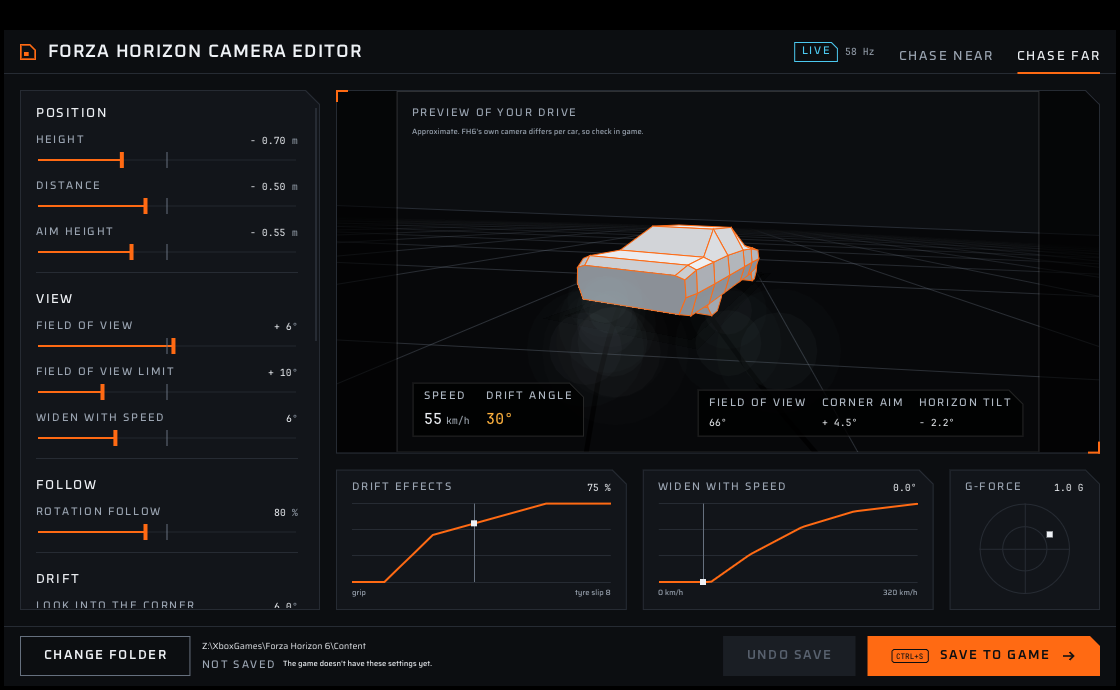
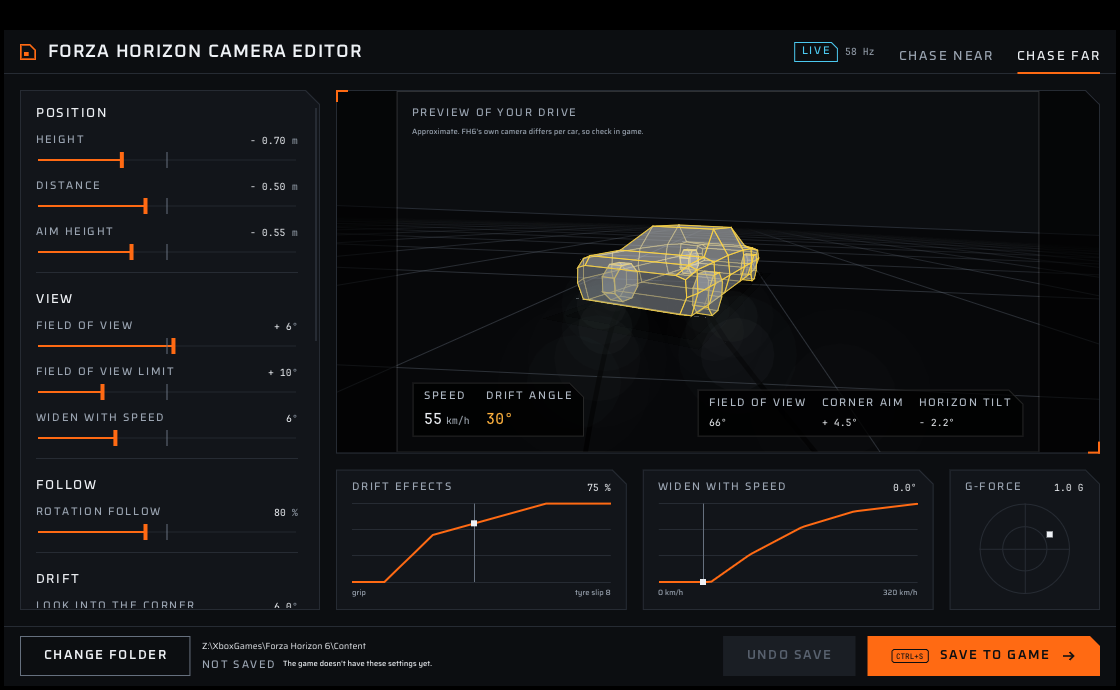
See-through preview car with yellow edges
Faces are semi-transparent white and back faces are kept, so the far side and
the wheels show faintly through the near side. Edge lines are yellow at about
85% opacity on near faces, dimmer on far ones.

Changed region(s): [[0.5, 0.3043, 0.6875, 0.4565], [0.8125, 0.3957, 0.8438, 0.4261], [0.375, 0.487, 0.4062, 0.5174]]

diff --git a/editor/src/preview.cpp b/editor/src/preview.cpp
@@ -31,7 +31,7 @@ ImU32 mix(unsigned a, unsigned b, float t, int alpha = 255) {
     return IM_COL32(ch(16), ch(8), ch(0), alpha);
 }
 
-struct Face { V3 c[8]; int count; V3 n; float shade; double depth; };
+struct Face { V3 c[8]; int count; V3 n; float shade; double depth; bool front; };
 } // namespace
 
 void drawPreview(ImDrawList* dl, ImVec2 a, ImVec2 b, ImVec2 fa, ImVec2 fb, const fh6::CamPose& cam, const fh6::Inputs& in, const fh6::Scene& scene) {
@@ -117,9 +117,9 @@ void drawPreview(ImDrawList* dl, ImVec2 a, ImVec2 b, ImVec2 fa, ImVec2 fb, const
     };
     drawSmoke(true);
 
-    // car: a white low-poly coupe lofted through cross-sections along its
-    // length, flat shaded with orange edge lines; wheels first (tucked under
-    // the body), then the body. Painter's order hides the lines of faces behind.
+    // car: a see-through white low-poly coupe lofted through cross-sections
+    // along its length, with yellow edge lines. All faces, back to front: the
+    // far side shows faintly through the near side.
     V3 fwd(std::sin(in.heading), 0, std::cos(in.heading));
     V3 right(fwd.z, 0, -fwd.x);
     V3 up(0, 1, 0);
@@ -143,7 +143,7 @@ void drawPreview(ImDrawList* dl, ImVec2 a, ImVec2 b, ImVec2 fa, ImVec2 fb, const
         if (nrm.len() < 1e-9) return;
         nrm = nrm.norm();
         if (nrm.dot(ctr - inside) < 0) nrm = nrm * -1.0; // outward
-        if (nrm.dot(v.pos - ctr) <= 0) return;           // facing away
+        f.front = nrm.dot(v.pos - ctr) > 0;              // back faces stay: the shell is see-through
         f.n = nrm;
         f.shade = (float)std::clamp(0.30 + 0.70 * std::max(0.0, nrm.dot(light)), 0.0, 1.0);
         f.depth = v.toCam(ctr).z;
@@ -216,23 +216,22 @@ void drawPreview(ImDrawList* dl, ImVec2 a, ImVec2 b, ImVec2 fa, ImVec2 fb, const
         }
     }
 
-    auto byDepth = [](const Face& x, const Face& y) { return x.depth > y.depth; };
-    std::sort(wheels.begin(), wheels.end(), byDepth);
-    std::sort(body.begin(), body.end(), byDepth);
-    for (auto* list : { &wheels, &body })
-        for (auto& fc : *list) {
-            ImVec2 q[8];
-            bool ok = true;
-            for (int i = 0; i < fc.count; i++) {
-                V3 c = v.toCam(fc.c[i]);
-                if (c.z < v.nearZ) { ok = false; break; }
-                q[i] = v.project(c);
-            }
-            if (!ok) continue;
-            ImU32 fill = mix(0x5E646E, 0xF6F7F9, fc.shade); // white paint, shaded
-            dl->AddConvexPolyFilled(q, fc.count, fill);
-            dl->AddPolyline(q, fc.count, rgb(ORANGE), 1.f * S, ImDrawFlags_Closed); // orange wireframe on every polygon edge
+    std::vector<Face> faces(wheels);
+    faces.insert(faces.end(), body.begin(), body.end());
+    std::sort(faces.begin(), faces.end(), [](const Face& x, const Face& y) { return x.depth > y.depth; });
+    for (auto& fc : faces) {
+        ImVec2 q[8];
+        bool ok = true;
+        for (int i = 0; i < fc.count; i++) {
+            V3 c = v.toCam(fc.c[i]);
+            if (c.z < v.nearZ) { ok = false; break; }
+            q[i] = v.project(c);
         }
+        if (!ok) continue;
+        ImU32 shade = mix(0x5E646E, 0xF6F7F9, fc.front ? fc.shade : 0.35f, fc.front ? 115 : 45); // semi-transparent white
+        dl->AddConvexPolyFilled(q, fc.count, shade);
+        dl->AddPolyline(q, fc.count, rgb(0xFFD43B, fc.front ? 215 : 90), 1.f * S, ImDrawFlags_Closed); // yellow edges
+    }
     drawSmoke(false);
     // outside the game's 16:9 frame: dimmed, with a thin frame edge
     ImU32 dim = glass(60);
